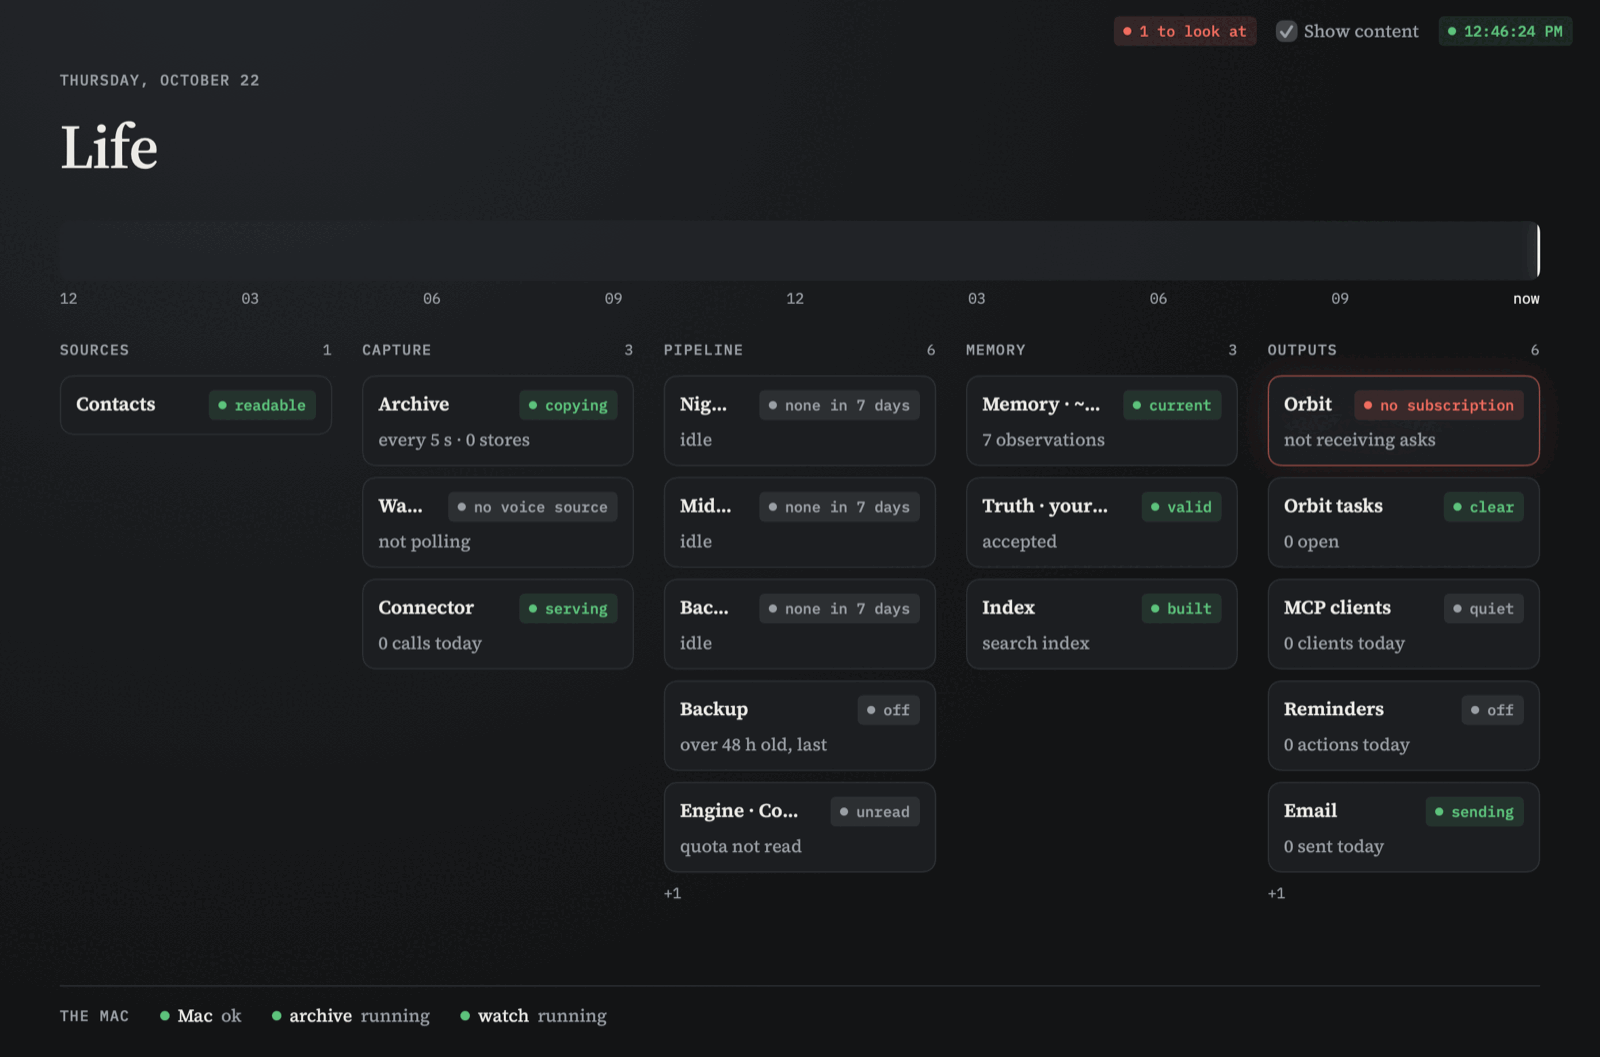
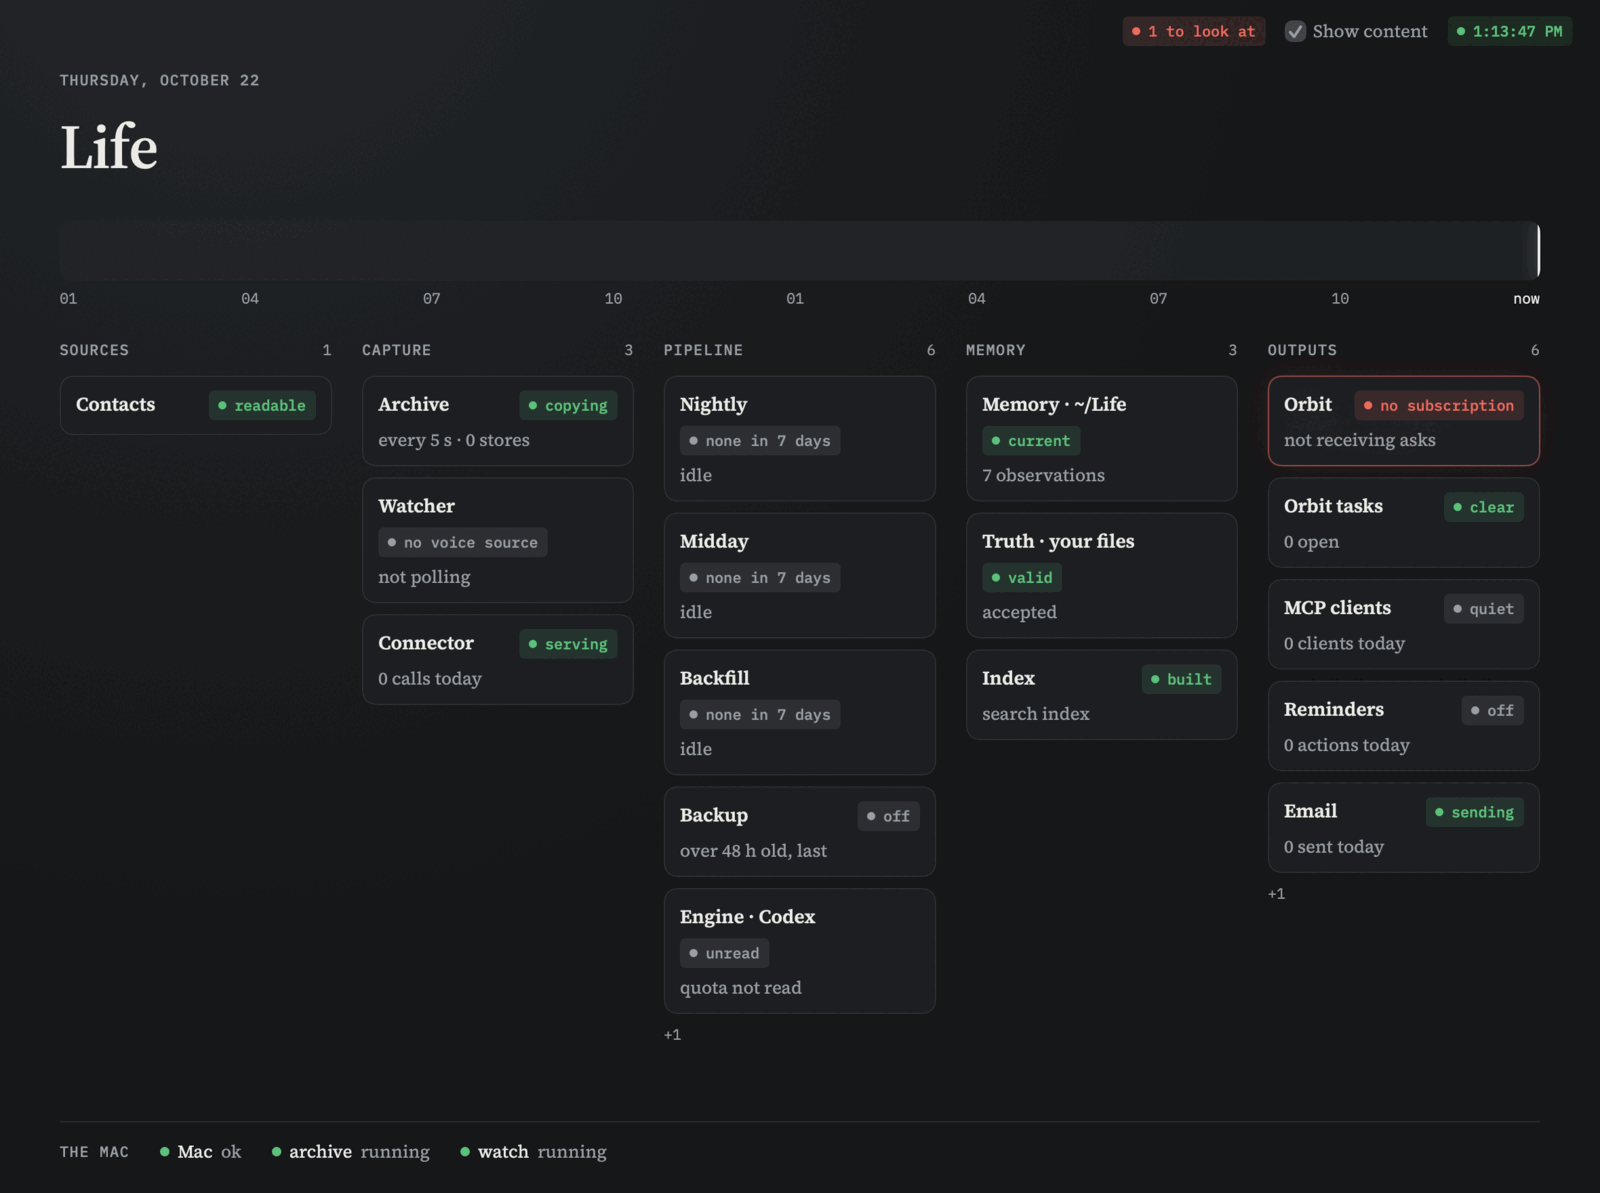
Status cards show their whole name, the state under it when both don't fit; README drops its draft section; screenshots redrawn

diff --git a/app/Sources/LifeApp/CardTile.swift b/app/Sources/LifeApp/CardTile.swift
@@ -8,10 +8,17 @@ struct CardTile: View {
 
   var body: some View {
     VStack(alignment: .leading, spacing: 6) {
-      HStack(alignment: .firstTextBaseline, spacing: 8) {
-        Text(card.name).font(Ledger.serif(14, .semibold)).foregroundStyle(Ledger.ink).lineLimit(1)
-        Spacer(minLength: 0)
-        Pill(tone: card.tone, word: card.word)
+      // The name whole, its state beside it when both fit, else under it.
+      ViewThatFits(in: .horizontal) {
+        HStack(alignment: .firstTextBaseline, spacing: 8) {
+          name.fixedSize()
+          Spacer(minLength: 0)
+          Pill(tone: card.tone, word: card.word).fixedSize()
+        }
+        VStack(alignment: .leading, spacing: 6) {
+          name
+          Pill(tone: card.tone, word: card.word)
+        }
       }
       if card.headline != card.word {
         Text(card.headline).font(Ledger.serif(12.5)).foregroundStyle(Ledger.muted).lineLimit(2)
@@ -38,6 +45,10 @@ struct CardTile: View {
     }
     .shadow(color: trouble ? card.tone.color.opacity(0.14) : .clear, radius: 14)
     .contentShape(.rect(cornerRadius: 10))
+  }
+
+  private var name: some View {
+    Text(card.name).font(Ledger.serif(14, .semibold)).foregroundStyle(Ledger.ink)
   }
 
   private func color(_ state: String) -> Color {

diff --git a/README.md b/README.md
@@ -44,13 +44,6 @@ This is a real run, trimmed, on made-up demo data written by [`scripts/demo.ts`]
 the command to run it again: Claude Code, with Life's read commands as its only tool. Claude.ai and ChatGPT get the
 same reads through Life's connector. Each `obs_…` id opens the fact and the message it was quoted from.
 
-<!-- draft: to be rewritten -->
-## Why I built this
-
-Most of what I need to remember I have already said or written somewhere: in a chat, an email, a note, a conversation.
-I wanted something that reads all of it every night and keeps a memory I can ask, without me filing anything. It had
-to stay on my own Mac, in a git repository of its own, and answer through the assistant I already use every day.
-
 ## What you need
 
 Required:
